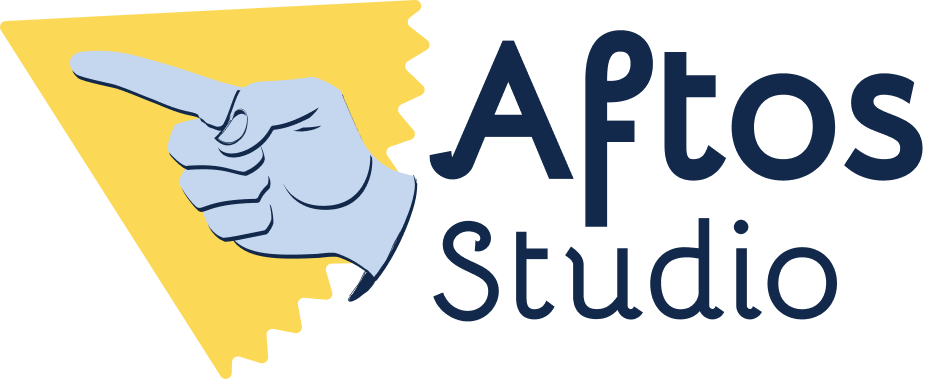
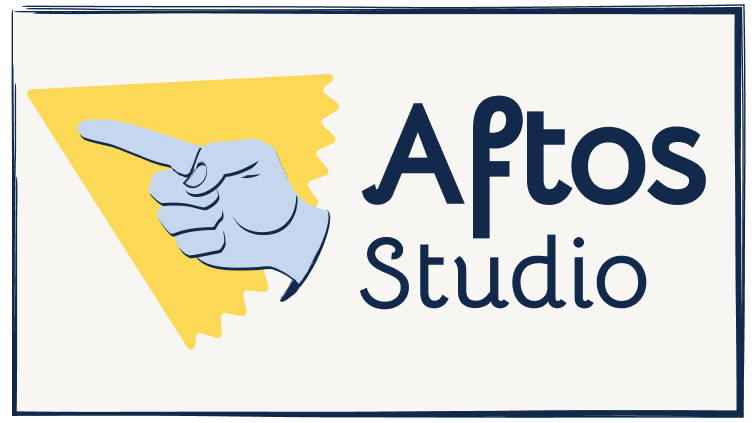
AAA

diff --git a/src/components/navbar/MenuBar.vue b/src/components/navbar/MenuBar.vue
@@ -2,7 +2,7 @@
     <div style="width: 100%; margin-bottom: 5px;">
         <nav style="display: flex; justify-content: center; gap: 5px;">
             <div style="margin:6px">
-                <RouterLink to="/home"><img :src="'assets/imgs/logo-removebg.png'" :alt="logo" style="height:30px; width:30px"/></RouterLink>
+                <RouterLink to="/home"><img :src="'assets/imgs/IMAGOTIPO.png'" :alt="logo" style="height:30px; width:60px"/></RouterLink>
             </div>
             <div class="links">
                 <RouterLink to="/home">Home</RouterLink>

diff --git a/src/components/ui/UIFooter.vue b/src/components/ui/UIFooter.vue
@@ -2,7 +2,7 @@
     <div class="ui-footer" style="display:flex; flex-direction: column;">
         <div style="display:flex;  justify-content: center;">
             <div style="display:flex; flex-direction: column;">
-                <RouterLink to="/home" style="display: flex; justify-content: center;"><img :src="'assets/imgs/logo-removebg.png'" :alt="logo" style="height:auto; width:auto"/></RouterLink>
+                <RouterLink to="/home" style="display: flex; justify-content: center;"><img :src="'assets/imgs/logo-chiki.png'" :alt="logo" style="height:260px; width:260px"/></RouterLink>
                <div><SocialButton/></div>
                 <p> © Aftos Studios todos los derechos reservados | <RouterLink to="/privacy">Política de Privacidad</RouterLink></p>
             </div>